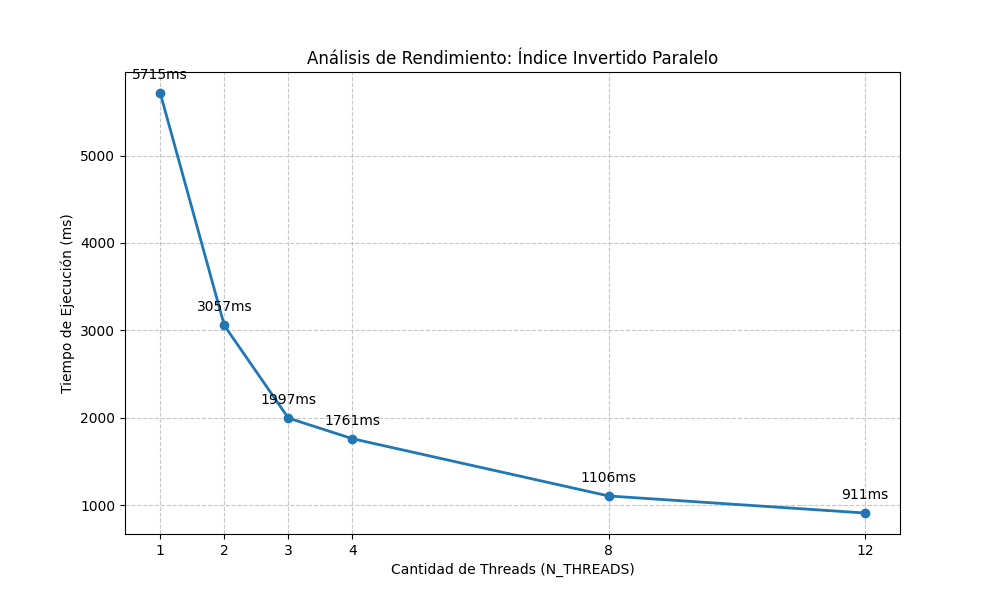
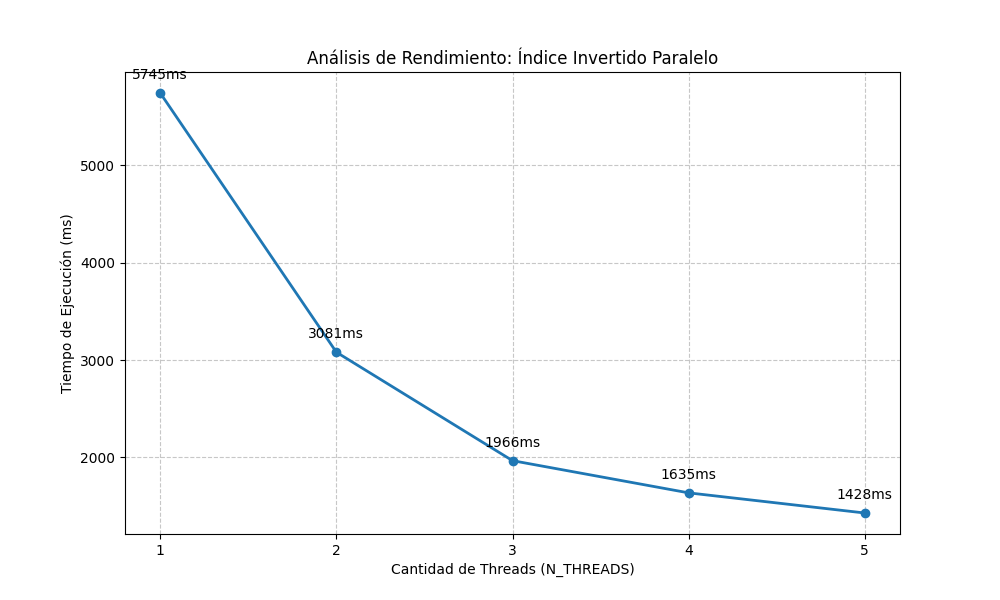
cambios grafico profe

diff --git a/grafica_rendimiento_paralela/src/benchmark.cpp b/grafica_rendimiento_paralela/src/benchmark.cpp
@@ -12,6 +12,7 @@ namespace fs = std::filesystem;
 // --- CONFIGURACIÓN ---
 const std::string ARCHIVO_SALIDA_TEMP = "temp_benchmark.idx";
 const std::string LOG_TIEMPOS = "benchmark_resultados.log"; 
+const int DEFAULT_MAX_TESTS = 5;
 
 std::string trim(const std::string& str) {
     size_t first = str.find_first_not_of(" \t\n\r");
@@ -20,18 +21,12 @@ std::string trim(const std::string& str) {
     return str.substr(first, (last - first + 1));
 }
 
-// Función para parsear formato python
-std::vector<int> parsearListaPython(std::string str) {
+std::vector<int> parsearHilosInput(std::string str) {
     std::vector<int> numeros;
-    for (char &c : str) {
-        if (c == '[' || c == ']' || c == '\'' || c == '\"' || c == ',') {
-            c = ' ';
-        }
-    }
     std::stringstream ss(str);
     int num;
     while (ss >> num) {
-        numeros.push_back(num);
+        if (num > 0) numeros.push_back(num);
     }
     return numeros;
 }
@@ -57,20 +52,12 @@ bool inicializarLog(const std::string& rutaArchivo) {
     if (rutaCompleta.has_parent_path()) {
         fs::path directorio = rutaCompleta.parent_path();
         if (!fs::exists(directorio)) {
-            try {
-                fs::create_directories(directorio);
-            } catch (const fs::filesystem_error& e) {
-                std::cerr << "[ERROR] No se pudo crear el directorio del log: " << e.what() << std::endl;
-                return false;
-            }
+            try { fs::create_directories(directorio); } 
+            catch (...) { return false; }
         }
     }
-
     std::ofstream archivo(rutaArchivo, std::ofstream::trunc);
-    if (!archivo.is_open()) {
-        std::cerr << "[ERROR] No se pudo crear el archivo de log: " << rutaArchivo << std::endl;
-        return false;
-    }
+    if (!archivo.is_open()) return false;
     archivo.close();
     return true;
 }
@@ -79,15 +66,18 @@ int main(int argc, char* argv[]) {
     std::cout << "==================================================" << std::endl;
     std::cout << "     INICIANDO BENCHMARK DE RENDIMIENTO" << std::endl;
     std::cout << "==================================================" << std::endl;
-    
-    if (argc < 2) {
-        std::cerr << "Uso: " << argv[0] << " <carpeta_libros>" << std::endl;
+
+    // --- 1. VALIDACIÓN DE ARGUMENTOS ---
+    if (argc < 3) {
+        std::cerr << "Uso: " << argv[0] << " <carpeta_libros> <lista_hilos>" << std::endl;
+        std::cerr << "Ejemplo: " << argv[0] << " ../data/libros \"1 2 4 8\"" << std::endl;
         return 1;
     }
     
     std::string carpeta_libros = argv[1];
+    std::string input_hilos = argv[2]; 
 
-    // Cargar .env
+    // --- 2. CARGAR CONFIGURACIÓN ---
     if (fs::exists(".env")) cargarEnv(".env");
     else if (fs::exists("../.env")) cargarEnv("../.env");
 
@@ -95,7 +85,7 @@ int main(int argc, char* argv[]) {
     std::string ruta_ejecutable = env_exe ? env_exe : ""; 
 
     if (ruta_ejecutable.empty() || !fs::exists(ruta_ejecutable)) {
-        std::cerr << "[ERROR FATAL] Ejecutable no encontrado (Revisa INDICE_INVERT_PARALELO): " << ruta_ejecutable << std::endl;
+        std::cerr << "[ERROR FATAL] Ejecutable no encontrado: " << ruta_ejecutable << std::endl;
         return 1;
     }
     if (!fs::exists(carpeta_libros)) {
@@ -103,25 +93,39 @@ int main(int argc, char* argv[]) {
         return 1;
     }
 
-    // Obtener CANT_THREADS del .env
-    std::vector<int> cant_threads;
-    const char* env_threads = std::getenv("CANT_TREADS"); 
-    if (!env_threads) env_threads = std::getenv("CANT_THREADS"); 
+    // --- 3. PROCESAR HILOS Y APLICAR LÍMITE ---
+    
+    const char* env_limit = std::getenv("MAX_BENCHMARK_TESTS");
+    int max_tests = env_limit ? std::atoi(env_limit) : DEFAULT_MAX_TESTS;
+    if (max_tests <= 0) max_tests = DEFAULT_MAX_TESTS;
 
-    if (env_threads) {
-        cant_threads = parsearListaPython(env_threads);
-    } else {
-        std::cout << "  [WARN] Usando default." << std::endl;
-        cant_threads = {2, 4, 8, 12, 16};
+    std::cout << "  [CONF] Límite de pruebas (.env): " << max_tests << std::endl;
+
+    std::vector<int> cant_threads = parsearHilosInput(input_hilos);
+
+    if (cant_threads.empty()) {
+        std::cerr << "[ERROR] No ingresaste números válidos de hilos." << std::endl;
+        return 1;
     }
 
-    //  Preparar archivo de Log
-    if (!inicializarLog(LOG_TIEMPOS)) return 1;
+    if (cant_threads.size() > (size_t)max_tests) {
+        std::cout << "  [WARN] Ingresaste " << cant_threads.size() << " configuraciones, pero el límite es " << max_tests << "." << std::endl;
+        std::cout << "  -> Recortando la lista a los primeros " << max_tests << "." << std::endl;
+        cant_threads.resize(max_tests);
+    }
 
+    std::cout << "  [INFO] Se ejecutarán pruebas con: ";
+    for (int t : cant_threads) std::cout << t << " ";
+    std::cout << "hilos." << std::endl;
+
+
+    // --- 4. PREPARAR LOG ---
+    if (!inicializarLog(LOG_TIEMPOS)) return 1;
     std::string log_absoluto = fs::absolute(LOG_TIEMPOS).string();
     setenv("BENCHMARK_OUTPUT", log_absoluto.c_str(), 1);
 
-    // Ejecutar Pruebas
+
+    // --- 5. EJECUTAR PRUEBAS ---
     for (int n_hilos : cant_threads) {
         std::cout << "\n>>> Probando con " << n_hilos << " threads... ";
         std::cout.flush();
@@ -143,6 +147,8 @@ int main(int argc, char* argv[]) {
     unsetenv("BENCHMARK_OUTPUT");
     unsetenv("N_THREADS");
 
+
+    // --- 6. GRAFICAR ---
     std::cout << "\n\n==================================================" << std::endl;
     std::cout << "     GENERANDO GRÁFICO" << std::endl;
     std::cout << "==================================================" << std::endl;
@@ -158,7 +164,9 @@ int main(int argc, char* argv[]) {
     std::string comandoPy = "python3 " + script_py_final + " " + LOG_TIEMPOS;
     int retPy = system(comandoPy.c_str());
 
-    if (retPy != 0) {
+    if (retPy == 0) {
+        std::cout << "\n[EXITO] Gráfico guardado: grafico_rendimiento.png" << std::endl;
+    } else {
         std::cerr << "\n[ERROR] Falló Python." << std::endl;
     }
 

diff --git a/menu_principal/src/menu.cpp b/menu_principal/src/menu.cpp
@@ -476,19 +476,19 @@ void graficaParalela (){
 
         limpiarPantalla();
         std::cout << "PID del proceso: " << getpid() << std::endl;
-        std::cout << "\n === Grafica rendimiento ===" << std::endl;
+        std::cout << "\n === Grafica Rendimiento (Benchmark) ===" << std::endl;
+        
         std::string carpetaLibros;
+        std::string listaHilos;
 
-        // Mostrar configuración actual
-        const char* cantThreads = std::getenv("CANT_THREADS");
+        // 1. Mostrar límite configurado en el .env 
+        const char* maxTests = std::getenv("MAX_BENCHMARK_TESTS");
+        std::cout << "\n[INFO] Límite de pruebas simultáneas (.env): " 
+                  << (maxTests ? maxTests : "5 (default)") << std::endl;
 
-        std::cout << "\nConfiguración actual:" << std::endl;
-        std::cout << "\n  CANT_THREADS: " << (cantThreads ? cantThreads : "4 (default)") << std::endl;
-
+        // 2. Pedir Carpeta
         std::cout << "\nIngrese carpeta de libros: ";
-        
-        std::cin.ignore(std::numeric_limits<std::streamsize>::max(), '\n');
-        
+        std::cin.ignore(std::numeric_limits<std::streamsize>::max(), '\n'); // Limpiar buffer
         std::getline(std::cin, carpetaLibros);
 
         if (carpetaLibros.empty()) {
@@ -497,20 +497,30 @@ void graficaParalela (){
             continue;
         }
 
-        std::cout << "Iniciando Benchmark..." << std::endl;
-        
-        const char* programa = std::getenv("BENCHMARK_RENDIMIENTO");
-        
-        if (!programa) {
-            std::cout << "Error: Variable de entorno BENCHMARK_RENDIMIENTO no definida en .env" << std::endl;
-            std::cout << "Defínela apuntando a: ../grafica_rendimiento_paralela/bin/benchmark" << std::endl;
+        // 3. Pedir Hilos 
+        std::cout << "Ingrese los hilos a probar separados por espacio (Ej: 1 2 4 8): ";
+        std::getline(std::cin, listaHilos);
+
+        if (listaHilos.empty()) {
+            std::cout << "Error: lista de hilos vacía" << std::endl;
             pausarPantalla();
-            return; // Salir si no hay configuración
+            continue;
         }
 
-        // Construimos el comando: ./bin/benchmark "ruta/a/libros"
-        std::string comando = std::string(programa) + " \"" + carpetaLibros + "\"";
+        std::cout << "\nIniciando Benchmark..." << std::endl;
         
+        const char* programa = std::getenv("BENCHMARK_RENDIMIENTO");
+        if (!programa) {
+            std::cout << "Error: BENCHMARK_RENDIMIENTO no definida en .env" << std::endl;
+            pausarPantalla();
+            return;
+        }
+
+        // ./benchmark "carpeta" "1 2 4 8"
+        std::string comando = std::string(programa) + " \"" + carpetaLibros + "\" \"" + listaHilos + "\"";
+        
+        std::cout << "Ejecutando: " << comando << std::endl;
+
         int resultado = system(comando.c_str());        
         if (resultado != 0) {
             std::cerr << "Error al ejecutar el programa de benchmark." << std::endl;
